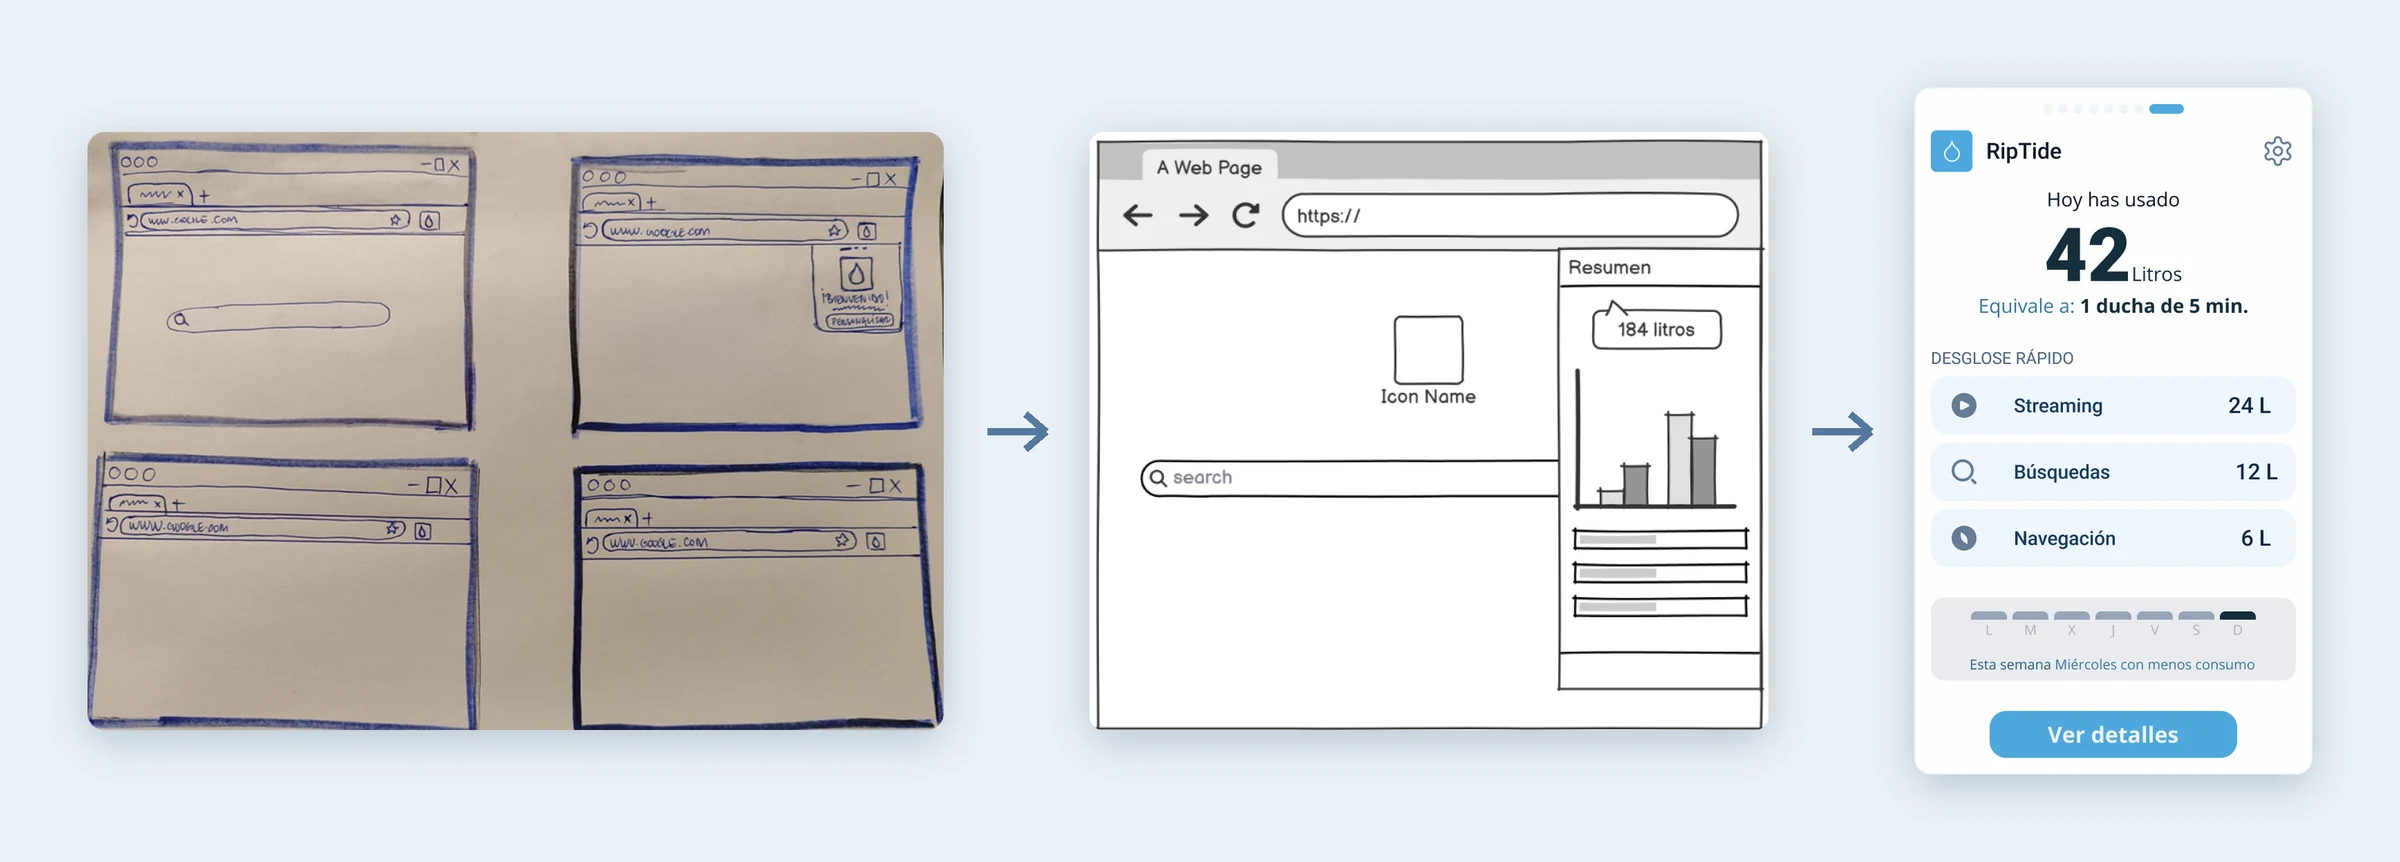
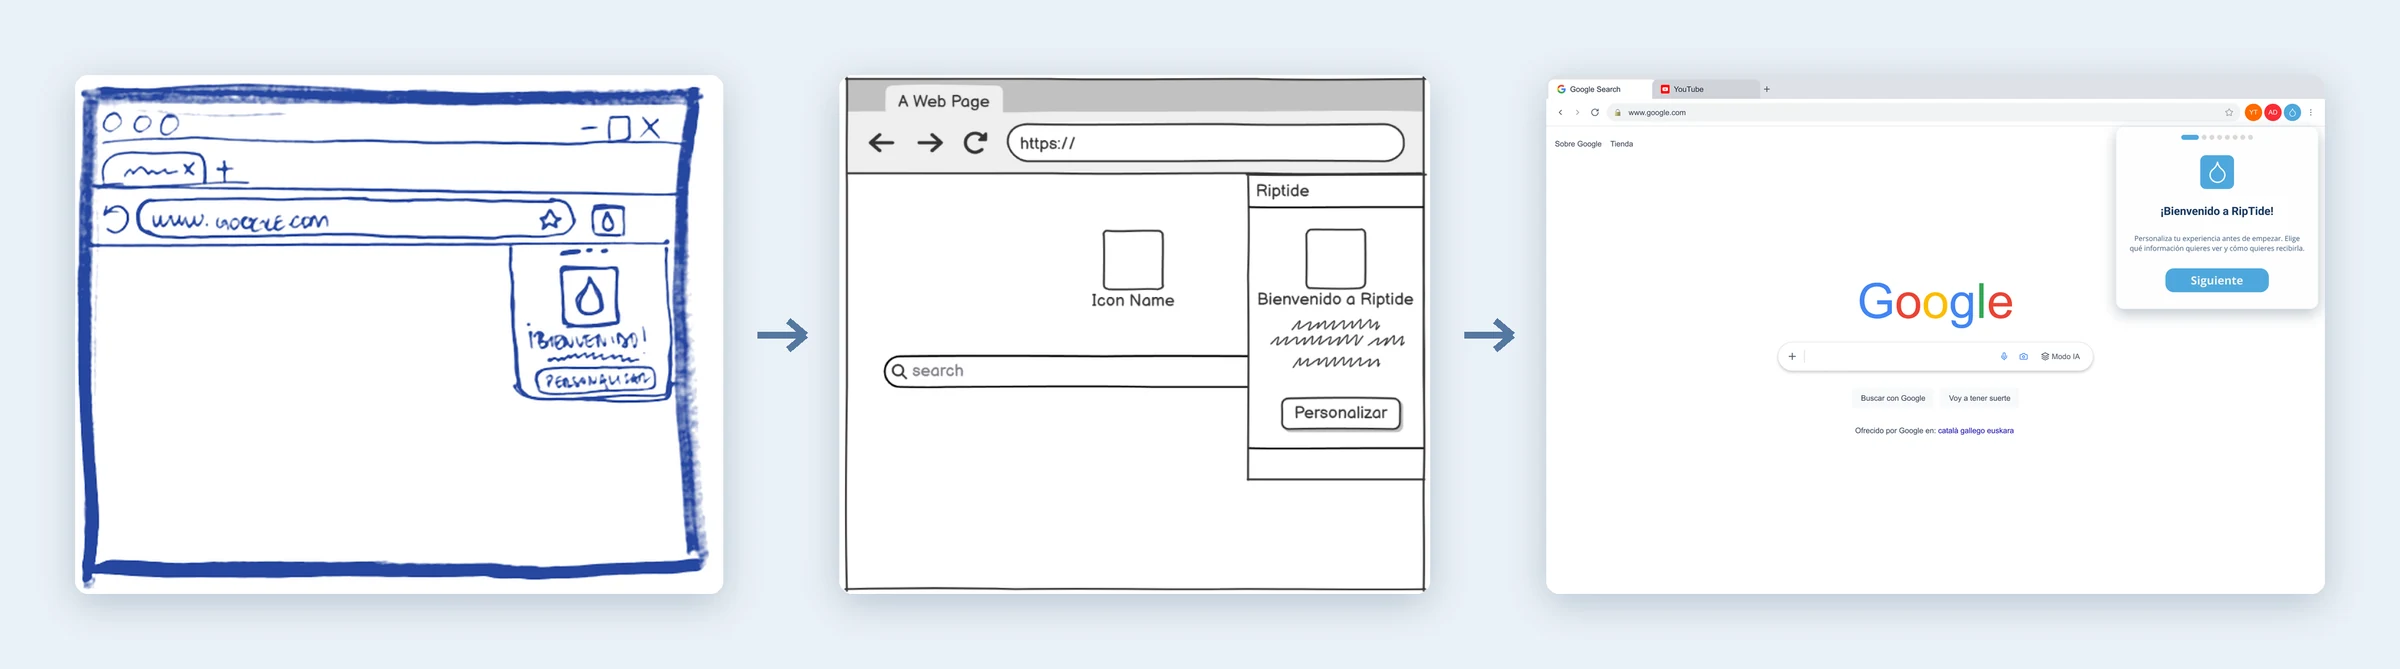
Riptide: nueva portada, happy path en HTML e imagen de evolución (#39)
* Riptide: nueva portada con tres pantallas de la extensión

- Sustituye el mockup de portátil por bienvenida, resumen y configuración
- Texto alternativo actualizado en ES, EN y PT

Claude-Session: https://claude.ai/code/session_01CFNNxoB4WtUsNXTVhccqMi

* Riptide: fondo de portada en azul grisáceo para igualar a Camperoteca

Claude-Session: https://claude.ai/code/session_01CFNNxoB4WtUsNXTVhccqMi

* Riptide: happy path como componente HTML traducible

- Sustituye la imagen por 8 pasos en tarjetas con los colores del sitio
- Cuadrícula de 4 columnas en escritorio y carrusel deslizable en móvil
- Textos en ES, EN y PT; se elimina la imagen antigua

Claude-Session: https://claude.ai/code/session_01CFNNxoB4WtUsNXTVhccqMi

* Riptide: precisar la parte propia en wireframes de baja fidelidad

Claude-Session: https://claude.ai/code/session_01CFNNxoB4WtUsNXTVhccqMi

* Riptide: quitar «Aquae» del happy path y precisar el foco en la ficha

Claude-Session: https://claude.ai/code/session_01CFNNxoB4WtUsNXTVhccqMi

* Riptide: nueva imagen de evolución del diseño (bienvenida en tres fases)

Claude-Session: https://claude.ai/code/session_01CFNNxoB4WtUsNXTVhccqMi

* Riptide: alta fidelidad a escala en la imagen de evolución

Claude-Session: https://claude.ai/code/session_01CFNNxoB4WtUsNXTVhccqMi

* Riptide: la landing pasa a ser la primera pantalla de la solución

Claude-Session: https://claude.ai/code/session_01CFNNxoB4WtUsNXTVhccqMi
[…]

diff --git a/app/[lang]/work/riptide/page.tsx b/app/[lang]/work/riptide/page.tsx
@@ -21,8 +21,7 @@ export async function generateMetadata({ params }: { params: Promise<{ lang: str
 
 /* ─── imágenes ──────────────────────────────────────────────────── */
 const IMG = {
-  happy:      { src: "/assets/riptide/happy-path.webp",            w: 3200, h: 1035 },
-  evolution:  { src: "/assets/riptide/evolucion-diseno.webp",      w: 2400, h: 862 },
+  evolution:  { src: "/assets/riptide/evolucion-diseno.webp",      w: 2400, h: 669 },
   context:    { src: "/assets/riptide/extension-en-contexto.webp", w: 2400, h: 1671 },
   onboarding: { src: "/assets/riptide/onboarding-y-ajustes.webp",  w: 2400, h: 846 },
   landing:    { src: "/assets/riptide/landing.webp",               w: 2400, h: 1589 },
@@ -51,7 +50,7 @@ const copy = {
       ["Filosofía", "Awareness sin culpa"],
     ],
     focusLabel: "Mi foco",
-    focus: "Encuestas, entrevistas, síntesis de insights y HMW · Value Proposition Canvas, propuesta de valor y Business Model Canvas · Wireflow y wireframes",
+    focus: "Encuestas, entrevistas, síntesis de insights y HMW · Value Proposition Canvas, propuesta de valor y Business Model Canvas · Wireflow y wireframes de baja fidelidad",
 
     prob_label: "El problema",
     prob_title: "El impacto existe. Pero es invisible.",
@@ -73,6 +72,7 @@ const copy = {
       ["72,2 %", "quiere una presencia visible pero no intrusiva"],
     ],
     chart_title: "La culpa y las interrupciones son los dos motivos de rechazo principales",
+    chart_note: "En color, los dos motivos que guiaron las decisiones de diseño.",
     chart_q: "¿Qué te generaría más rechazo en una herramienta así? · % de 55 personas · respuesta múltiple",
     chart_rows: [
       ["Mensajes culpabilizadores", 52.7, "52,7 %"],
@@ -103,9 +103,21 @@ const copy = {
     sol_title: "No interrumpe, no juzga, no controla.",
     sol_value: "Riptide convierte la actividad digital en señales visuales simples, integradas de forma discreta en el navegador. No se trata de optimizar tu comportamiento: se trata de hacerlo visible.",
     sol_strategy: "Modelo freemium, con licencias para centros educativos y empresas con programas de sostenibilidad. Lo definí en el Value Proposition Canvas y el Business Model Canvas.",
+    hp_label: "Happy path",
+    hp_cta: "CTA",
+    hp_steps: [
+      { t: "Descubrimiento", d: "El usuario ve la extensión a través de:", b: ["Recomendación", "Presentación del proyecto", "Web, redes o boca a boca"], cta: "Añadir extensión" },
+      { t: "Instalación", d: "Instala la extensión en el navegador. Al abrirla por primera vez aparece un modal de bienvenida y personalización inicial.", b: [], cta: "Personalizar" },
+      { t: "Onboarding", d: "Tres pantallas explican de forma visual cómo se usa la extensión y cómo se puede personalizar.", b: [], cta: "Personalizar" },
+      { t: "Personalización 1", d: "El usuario elige qué quiere que analice la extensión:", b: ["Búsquedas", "Tiempo de navegación", "Compras online", "Vídeos y streaming"], cta: "Siguiente" },
+      { t: "Personalización 2", d: "El usuario decide cada cuánto tiempo quiere recibir avisos sobre su uso hídrico invisible.", b: [], cta: "Siguiente" },
+      { t: "Personalización 3", d: "El usuario decide cómo quiere ver su gasto de agua:", b: ["Litros de agua", "Equivalencias visuales (duchas, botellas, etc.)", "Indicadores simples"], cta: "Siguiente" },
+      { t: "Resumen", d: "Se muestra un primer resumen con:", b: ["Consumo acumulado estimado", "Actividad principal detectada", "Mensaje de concienciación"], cta: "Ver detalles" },
+      { t: "Landing page", d: "El usuario accede a su panel principal, donde puede ver:", b: ["Consumo total y por actividad", "Evolución en el tiempo", "Comparativas simples", "Sugerencias de mejora", "Microacciones para reducir su impacto"], cta: "" },
+    ],
     img_happy_alt: "Happy path de Riptide: descubrimiento, instalación, onboarding, tres pasos de personalización, resumen y landing",
     img_happy_cap: "Del descubrimiento al panel: instalación, onboarding, tres ajustes de personalización y primer resumen.",
-    img_evo_alt: "Tres versiones del popup de Riptide: boceto a mano, wireframe en blanco y negro y diseño final en azul",
+    img_evo_alt: "La pantalla de bienvenida de Riptide en tres fases: boceto a mano, wireframe de baja fidelidad y diseño final",
     img_evo_cap: "Del boceto en papel al wireframe y a la alta fidelidad.",
     sol_what: "Qué hace",
     sol_features: [
@@ -122,7 +134,7 @@ const copy = {
     img_onb_cap: "Onboarding y ajustes: la persona decide qué se mide, cuándo se avisa y en qué unidad.",
     img_land_alt: "Landing de Riptide con la mascota gota y el titular «Tu vida digital también consume agua. Descubre cuánta.»",
     img_land_cap: "La landing, puerta de entrada a la extensión y al panel web.",
-    sol_team: "La alta fidelidad fue trabajo de equipo; mi parte en esta fase fueron el wireflow y los wireframes.",
+    sol_team: "La alta fidelidad fue trabajo de equipo; mi parte en esta fase fueron el wireflow y los wireframes de baja fidelidad.",
 
     learn_label: "Aprendizajes",
     learn_title: "Qué me llevo de este proyecto",
@@ -164,7 +176,7 @@ const copy = {
       ["Philosophy", "Awareness without guilt"],
     ],
     focusLabel: "My focus",
-    focus: "Surveys, interviews, insight synthesis and HMW · Value Proposition Canvas, value proposition and Business Model Canvas · Wireflow and wireframes",
+    focus: "Surveys, interviews, insight synthesis and HMW · Value Proposition Canvas, value proposition and Business Model Canvas · Wireflow and low-fidelity wireframes",
 
     prob_label: "The problem",
     prob_title: "The impact exists. But it's invisible.",
@@ -186,6 +198,7 @@ const copy = {
       ["72.2%", "want a presence that is visible but not intrusive"],
     ],
     chart_title: "Guilt and interruptions are the top two reasons for rejection",
+    chart_note: "Highlighted: the two reasons that guided the design decisions.",
     chart_q: "What would put you off most in a tool like this? · % of 55 people · multiple answers",
     chart_rows: [
       ["Guilt-inducing messages", 52.7, "52.7%"],
@@ -216,9 +229,21 @@ const copy = {
     sol_title: "It doesn't interrupt, judge or control.",
     sol_value: "Riptide turns digital activity into simple visual signals, built discreetly into the browser. It's not about optimising your behaviour: it's about making it visible.",
     sol_strategy: "Freemium model, with licences for schools and companies running sustainability programmes. I defined it in the Value Proposition Canvas and the Business Model Canvas.",
+    hp_label: "Happy path",
+    hp_cta: "CTA",
+    hp_steps: [
+      { t: "Discovery", d: "The user finds the extension through:", b: ["A recommendation", "The project presentation", "The website, social media or word of mouth"], cta: "Add extension" },
+      { t: "Installation", d: "They install the extension in the browser. On first opening, a welcome and initial setup modal appears.", b: [], cta: "Personalise" },
+      { t: "Onboarding", d: "Three screens visually explain how the extension works and how it can be personalised.", b: [], cta: "Personalise" },
+      { t: "Personalisation 1", d: "The user chooses what the extension should analyse:", b: ["Searches", "Browsing time", "Online shopping", "Video and streaming"], cta: "Next" },
+      { t: "Personalisation 2", d: "The user decides how often they want to be notified about their invisible water use.", b: [], cta: "Next" },
+      { t: "Personalisation 3", d: "The user decides how they want to see their water use:", b: ["Litres of water", "Visual equivalents (showers, bottles, etc.)", "Simple indicators"], cta: "Next" },
+      { t: "Summary", d: "A first summary is shown with:", b: ["Estimated cumulative use", "Main activity detected", "An awareness message"], cta: "View details" },
+      { t: "Landing page", d: "The user reaches their main dashboard, where they can see:", b: ["Total use and use by activity", "Change over time", "Simple comparisons", "Suggestions for improvement", "Micro-actions to reduce their impact"], cta: "" },
+    ],
     img_happy_alt: "Riptide happy path: discovery, installation, onboarding, three personalisation steps, summary and landing page",
     img_happy_cap: "From discovery to dashboard: installation, onboarding, three personalisation settings and a first summary.",
-    img_evo_alt: "Three versions of the Riptide popup: hand sketch, black-and-white wireframe and final blue design",
+    img_evo_alt: "The Riptide welcome screen in three stages: hand sketch, low-fidelity wireframe and final design",
     img_evo_cap: "From paper sketch to wireframe to high fidelity.",
     sol_what: "What it does",
     sol_features: [
@@ -235,7 +260,7 @@ const copy = {
     img_onb_cap: "Onboarding and settings: people decide what is measured, when they're notified and in which unit.",
     img_land_alt: "Riptide landing page with the water-drop mascot and the headline “Your digital life also uses water. Find out how much.” (Spanish interface)",
     img_land_cap: "The landing page, the entry point to the extension and the web dashboard.",
-    sol_team: "High fidelity was a team effort; my part in this phase was the wireflow and the wireframes.",
+    sol_team: "High fidelity was a team effort; my part in this phase was the wireflow and the low-fidelity wireframes.",
 
     learn_label: "Learnings",
     learn_title: "What I take from this project",
@@ -277,7 +302,7 @@ const copy = {
       ["Filosofia", "Consciência sem culpa"],
     ],
     focusLabel: "Meu foco",
-    focus: "Questionários, entrevistas, síntese de insights e HMW · Value Proposition Canvas, proposta de valor e Business Model Canvas · Wireflow e wireframes",
+    focus: "Questionários, entrevistas, síntese de insights e HMW · Value Proposition Canvas, proposta de valor e Business Model Canvas · Wireflow e wireframes de baixa fidelidade",
 
     prob_label: "O problema",
     prob_title: "O impacto existe. Mas é invisível.",
@@ -299,6 +324,7 @@ const copy = {
       ["72,2%", "quer uma presença visível, mas não intrusiva"],
     ],
     chart_title: "A culpa e as interrupções são os dois principais motivos de rejeição",
+    chart_note: "Em destaque, os dois motivos que guiaram as decisões de design.",
     chart_q: "O que mais faria você rejeitar uma ferramenta assim? · % de 55 pessoas · múltipla escolha",
     chart_rows: [
       ["Mensagens que geram culpa", 52.7, "52,7%"],
@@ -329,9 +355,21 @@ const copy = {
     sol_title: "Não interrompe, não julga, não controla.",
     sol_value: "O Riptide transforma a atividade digital em sinais visuais simples, integrados de forma discreta ao navegador. Não se trata de otimizar o seu comportamento: se trata de torná-lo visível.",
     sol_strategy: "Modelo freemium, com licenças para escolas e empresas com programas de sustentabilidade. Eu o defini no Value Proposition Canvas e no Business Model Canvas.",
+    hp_label: "Happy path",
+    hp_cta: "CTA",
+    hp_steps: [
+      { t: "Descoberta", d: "O usuário conhece a extensão por meio de:", b: ["Recomendação", "Apresentação do projeto", "Site, redes sociais ou boca a boca"], cta: "Adicionar extensão" },
+      { t: "Instalação", d: "Instala a extensão no navegador. Ao abri-la pela primeira vez, aparece um modal de boas-vindas e personalização inicial.", b: [], cta: "Personalizar" },
+      { t: "Onboarding", d: "Três telas explicam de forma visual como a extensão funciona e como pode ser personalizada.", b: [], cta: "Personalizar" },
+      { t: "Personalização 1", d: "O usuário escolhe o que quer que a extensão analise:", b: ["Buscas", "Tempo de navegação", "Compras online", "Vídeos e streaming"], cta: "Avançar" },
+      { t: "Personalização 2", d: "O usuário decide com que frequência quer ser avisado sobre seu uso hídrico invisível.", b: [], cta: "Avançar" },
+      { t: "Personalização 3", d: "O usuário decide como quer ver seu gasto de água:", b: ["Litros de água", "Equivalências visuais (banhos, garrafas etc.)", "Indicadores simples"], cta: "Avançar" },
+      { t: "Resumo", d: "É exibido um primeiro resumo com:", b: ["Consumo acumulado estimado", "Atividade principal identificada", "Mensagem de conscientização"], cta: "Ver detalhes" },
+      { t: "Landing page", d: "O usuário acessa seu painel principal, onde pode ver:", b: ["Consumo total e por atividade", "Evolução ao longo do tempo", "Comparações simples", "Sugestões de melhoria", "Microações para reduzir seu impacto"], cta: "" },
+    ],
     img_happy_alt: "Happy path do Riptide: descoberta, instalação, onboarding, três etapas de personalização, resumo e landing page",
     img_happy_cap: "Da descoberta ao painel: instalação, onboarding, três ajustes de personalização e o primeiro resumo.",
-    img_evo_alt: "Três versões do pop-up do Riptide: esboço à mão, wireframe em preto e branco e design final em azul",
+    img_evo_alt: "A tela de boas-vindas do Riptide em três fases: esboço à mão, wireframe de baixa fidelidade e design final",
     img_evo_cap: "Do esboço no papel ao wireframe e à alta fidelidade.",
     sol_what: "O que faz",
     sol_features: [
@@ -348,7 +386,7 @@ const copy = {
     img_onb_cap: "Onboarding e ajustes: a pessoa decide o que é medido, quando é avisada e em que unidade.",
     img_land_alt: "Landing page do Riptide com a mascote gota e o título “Sua vida digital também consome água. Descubra quanto.” (interface em espanhol)",
     img_land_cap: "A landing page, porta de entrada para a extensão e o painel web.",
-    sol_team: "A alta fidelidade foi um trabalho em equipe; minha parte nesta fase foram o wireflow e os wireframes.",
+    sol_team: "A alta fidelidade foi um trabalho em equipe; minha parte nesta fase foram o wireflow e os wireframes de baixa fidelidade.",
 
     learn_label: "Aprendizados",
     learn_title: "O que levo deste projeto",
@@ -406,6 +444,37 @@ function Figure({ img, alt, caption, C }: { img: { src: string; w: number; h: nu
         />
       </div>
       <figcaption style={{ fontSize: "0.8125rem", lineHeight: 1.6, color: "var(--muted)", marginTop: "0.75rem" }}>{caption}</figcaption>
+    </figure>
+  );
+}
+
+function HappyPath({ C }: { C: Copy }) {
+  return (
+    <figure style={{ margin: "0 0 2.5rem" }}>
+      <ol className="rt-hp" aria-label={C.img_happy_alt} tabIndex={0} style={{ listStyle: "none", padding: 0, margin: 0 }}>
+        {C.hp_steps.map((st, i) => (
+          <li key={st.t} style={{ ...card, padding: "1.1rem 1.1rem 1.2rem", display: "flex", flexDirection: "column", gap: "0.5rem" }}>
+            <span aria-hidden="true" style={{ fontFamily: serif, fontSize: "1.25rem", lineHeight: 1, color: "var(--accent)" }}>{String(i + 1).padStart(2, "0")}</span>
+            <p style={{ fontSize: "0.875rem", fontWeight: 600, lineHeight: 1.35, color: "var(--ink)" }}>{st.t}</p>
+            <p style={{ fontSize: "0.8125rem", lineHeight: 1.55, color: "var(--muted)" }}>{st.d}</p>
+            {st.b.length > 0 && (
+              <ul style={{ listStyle: "none", padding: 0, margin: 0, display: "flex", flexDirection: "column", gap: "0.2rem" }}>
+                {st.b.map((x) => (
+                  <li key={x} style={{ display: "flex", gap: "0.4rem", fontSize: "0.8125rem", lineHeight: 1.5, color: "var(--muted)" }}>
+                    <span aria-hidden="true" style={{ color: "var(--accent)" }}>·</span>{x}
+                  </li>
+                ))}
+              </ul>
+            )}
+            {st.cta && (
+              <span style={{ marginTop: "auto", paddingTop: "0.5rem", fontSize: "0.75rem", color: "var(--ink)" }}>
+                <span style={{ ...smallCaps, color: "var(--accent)" }}>{C.hp_cta}</span> → {st.cta}
+              </span>
+            )}
+          </li>
+        ))}
+      </ol>
+      <figcaption style={{ fontSize: "0.8125rem", lineHeight: 1.6, color: "var(--muted)", marginTop: "0.75rem" }}>{C.img_happy_cap}</figcaption>
     </figure>
   );
 }
@@ -507,6 +576,10 @@ export default async function RiptidePage({ params }: { params: Promise<{ lang: 
                 </li>
               ))}
             </ul>
+            <p style={{ fontSize: "0.75rem", lineHeight: 1.5, color: "var(--muted)", marginTop: "1.25rem", display: "flex", alignItems: "center", gap: "0.5rem" }}>
+              <span aria-hidden="true" style={{ display: "inline-block", width: "0.75rem", height: "0.75rem", borderRadius: "999px", background: "var(--accent)", flexShrink: 0 }} />
+              {C.chart_note}
+            </p>
           </figure>
           <div style={{ display: "flex", flexDirection: "column", gap: "1rem", maxWidth: "640px" }}>
             <p style={body}>{C.res_after}</p>
@@ -560,7 +633,7 @@ export default async function RiptidePage({ params }: { params: Promise<{ lang: 
           </div>
         </Reveal>
         <Reveal delay={0.1}>
-          <Figure img={IMG.happy} alt={C.img_happy_alt} caption={C.img_happy_cap} C={C} />
+          <HappyPath C={C} />
           <Figure img={IMG.evolution} alt={C.img_evo_alt} caption={C.img_evo_cap} C={C} />
         </Reveal>
         <Reveal delay={0.1}>
@@ -574,9 +647,9 @@ export default async function RiptidePage({ params }: { params: Promise<{ lang: 
           </ul>
         </Reveal>
         <Reveal delay={0.1}>
+          <Figure img={IMG.landing} alt={C.img_land_alt} caption={C.img_land_cap} C={C} />
           <Figure img={IMG.context} alt={C.img_ctx_alt} caption={C.img_ctx_cap} C={C} />
           <Figure img={IMG.onboarding} alt={C.img_onb_alt} caption={C.img_onb_cap} C={C} />
-          <Figure img={IMG.landing} alt={C.img_land_alt} caption={C.img_land_cap} C={C} />
           <p style={{ fontSize: "0.8125rem", lineHeight: 1.6, color: "var(--muted)", fontStyle: "italic" }}>{C.sol_team}</p>
         </Reveal>
       </section>
@@ -629,13 +702,19 @@ export default async function RiptidePage({ params }: { params: Promise<{ lang: 
 
       <style>{`
         .rt-bar { display: grid; grid-template-columns: 1fr; gap: 0.35rem; }
+        .rt-hp { display: grid; gap: 0.75rem; grid-auto-flow: column; grid-auto-columns: 78%; overflow-x: auto; scroll-snap-type: x mandatory; padding-bottom: 0.5rem !important; }
+        .rt-hp > li { scroll-snap-align: start; }
         @media (min-width: 640px) {
           .rt-meta { grid-template-columns: repeat(3, 1fr) !important; }
           .rt-meta-wide { grid-column: span 3; }
           .rt-stats { grid-template-columns: repeat(2, 1fr) !important; }
           .rt-features { grid-template-columns: repeat(2, 1fr) !important; }
+          .rt-hp { grid-auto-flow: row; grid-auto-columns: auto; overflow: visible; grid-template-columns: repeat(2, 1fr) !important; padding-bottom: 0 !important; }
           .hmw-row { grid-template-columns: 1fr 1fr 1fr !important; }
           .rt-bar { grid-template-columns: 15rem 1fr; align-items: center; gap: 1rem; }
+        }
+        @media (min-width: 900px) {
+          .rt-hp { grid-template-columns: repeat(4, 1fr) !important; }
         }
       `}</style>
     </div>

diff --git a/lib/i18n.ts b/lib/i18n.ts
@@ -52,7 +52,7 @@ export const t = {
         desc: "Extensión de navegador que hace visible el impacto hídrico de la actividad digital. Awareness sin culpa, presencia sin intrusión.",
         year: "2026",
         cover: "/assets/riptide-cover.jpg",
-        coverAlt: "Interfaz de Riptide en un ordenador portátil sobre un escritorio",
+        coverAlt: "Tres pantallas de la extensión Riptide: bienvenida, resumen del día con 42 litros y configuración",
       },
     },
   },
@@ -107,7 +107,7 @@ export const t = {
         desc: "A browser extension that makes the hidden water footprint of digital activity visible. Awareness without guilt, presence without intrusion.",
         year: "2026",
         cover: "/assets/riptide-cover.jpg",
-        coverAlt: "Riptide interface on a laptop on a desk",
+        coverAlt: "Three Riptide extension screens: welcome, daily summary showing 42 litres and settings",
       },
     },
   },
@@ -162,7 +162,7 @@ export const t = {
         desc: "Extensão de navegador que torna visível o impacto hídrico da atividade digital cotidiana. Consciência sem culpa, presença sem intrusão.",
         year: "2026",
         cover: "/assets/riptide-cover.jpg",
-        coverAlt: "Interface do Riptide em um notebook sobre uma mesa",
+        coverAlt: "Três telas da extensão Riptide: boas-vindas, resumo do dia com 42 litros e configurações",
       },
     },
   },
